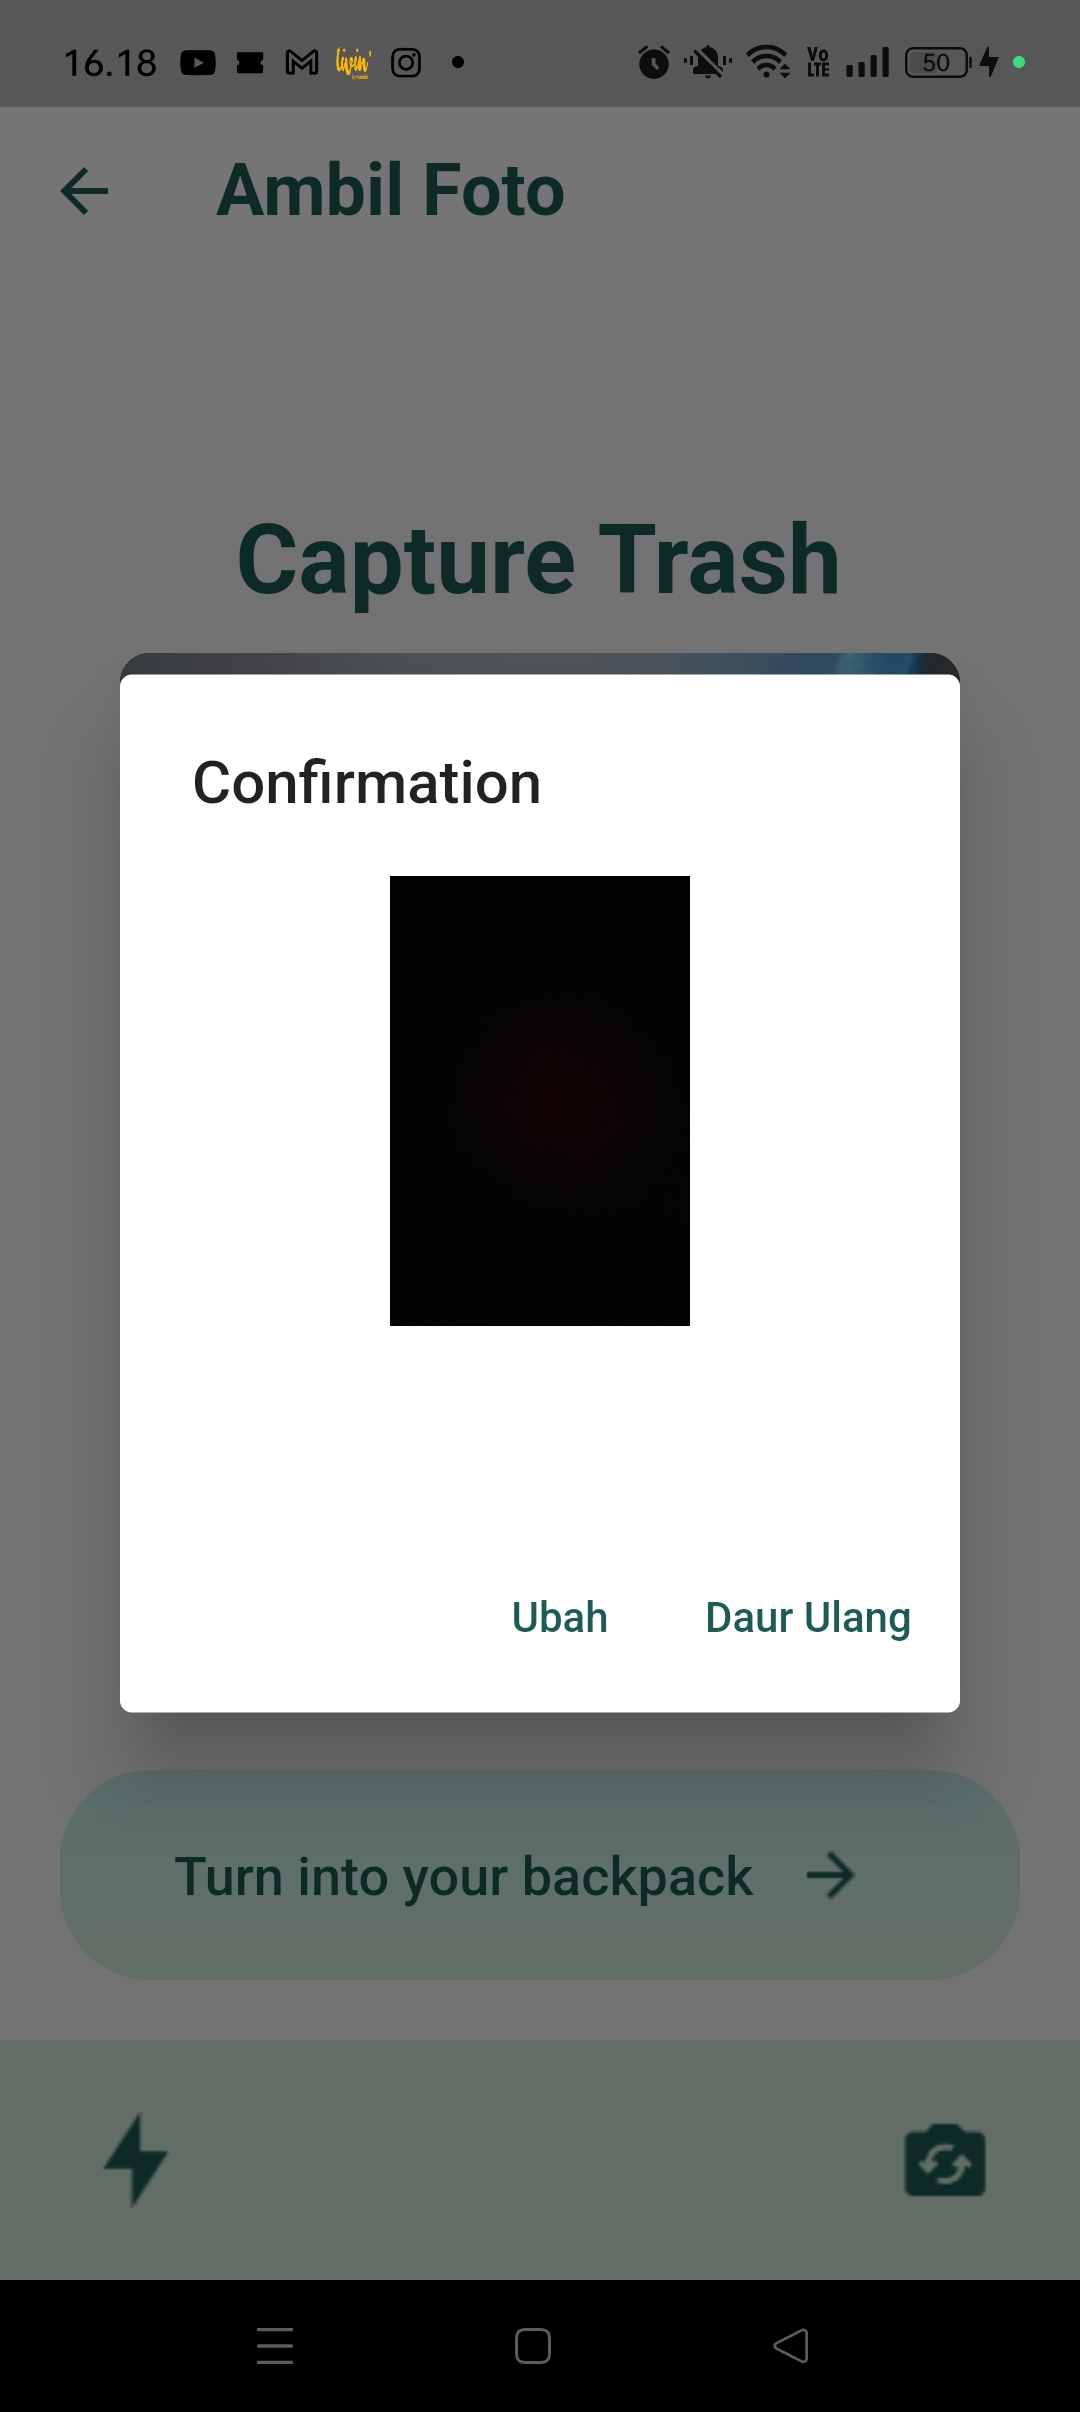
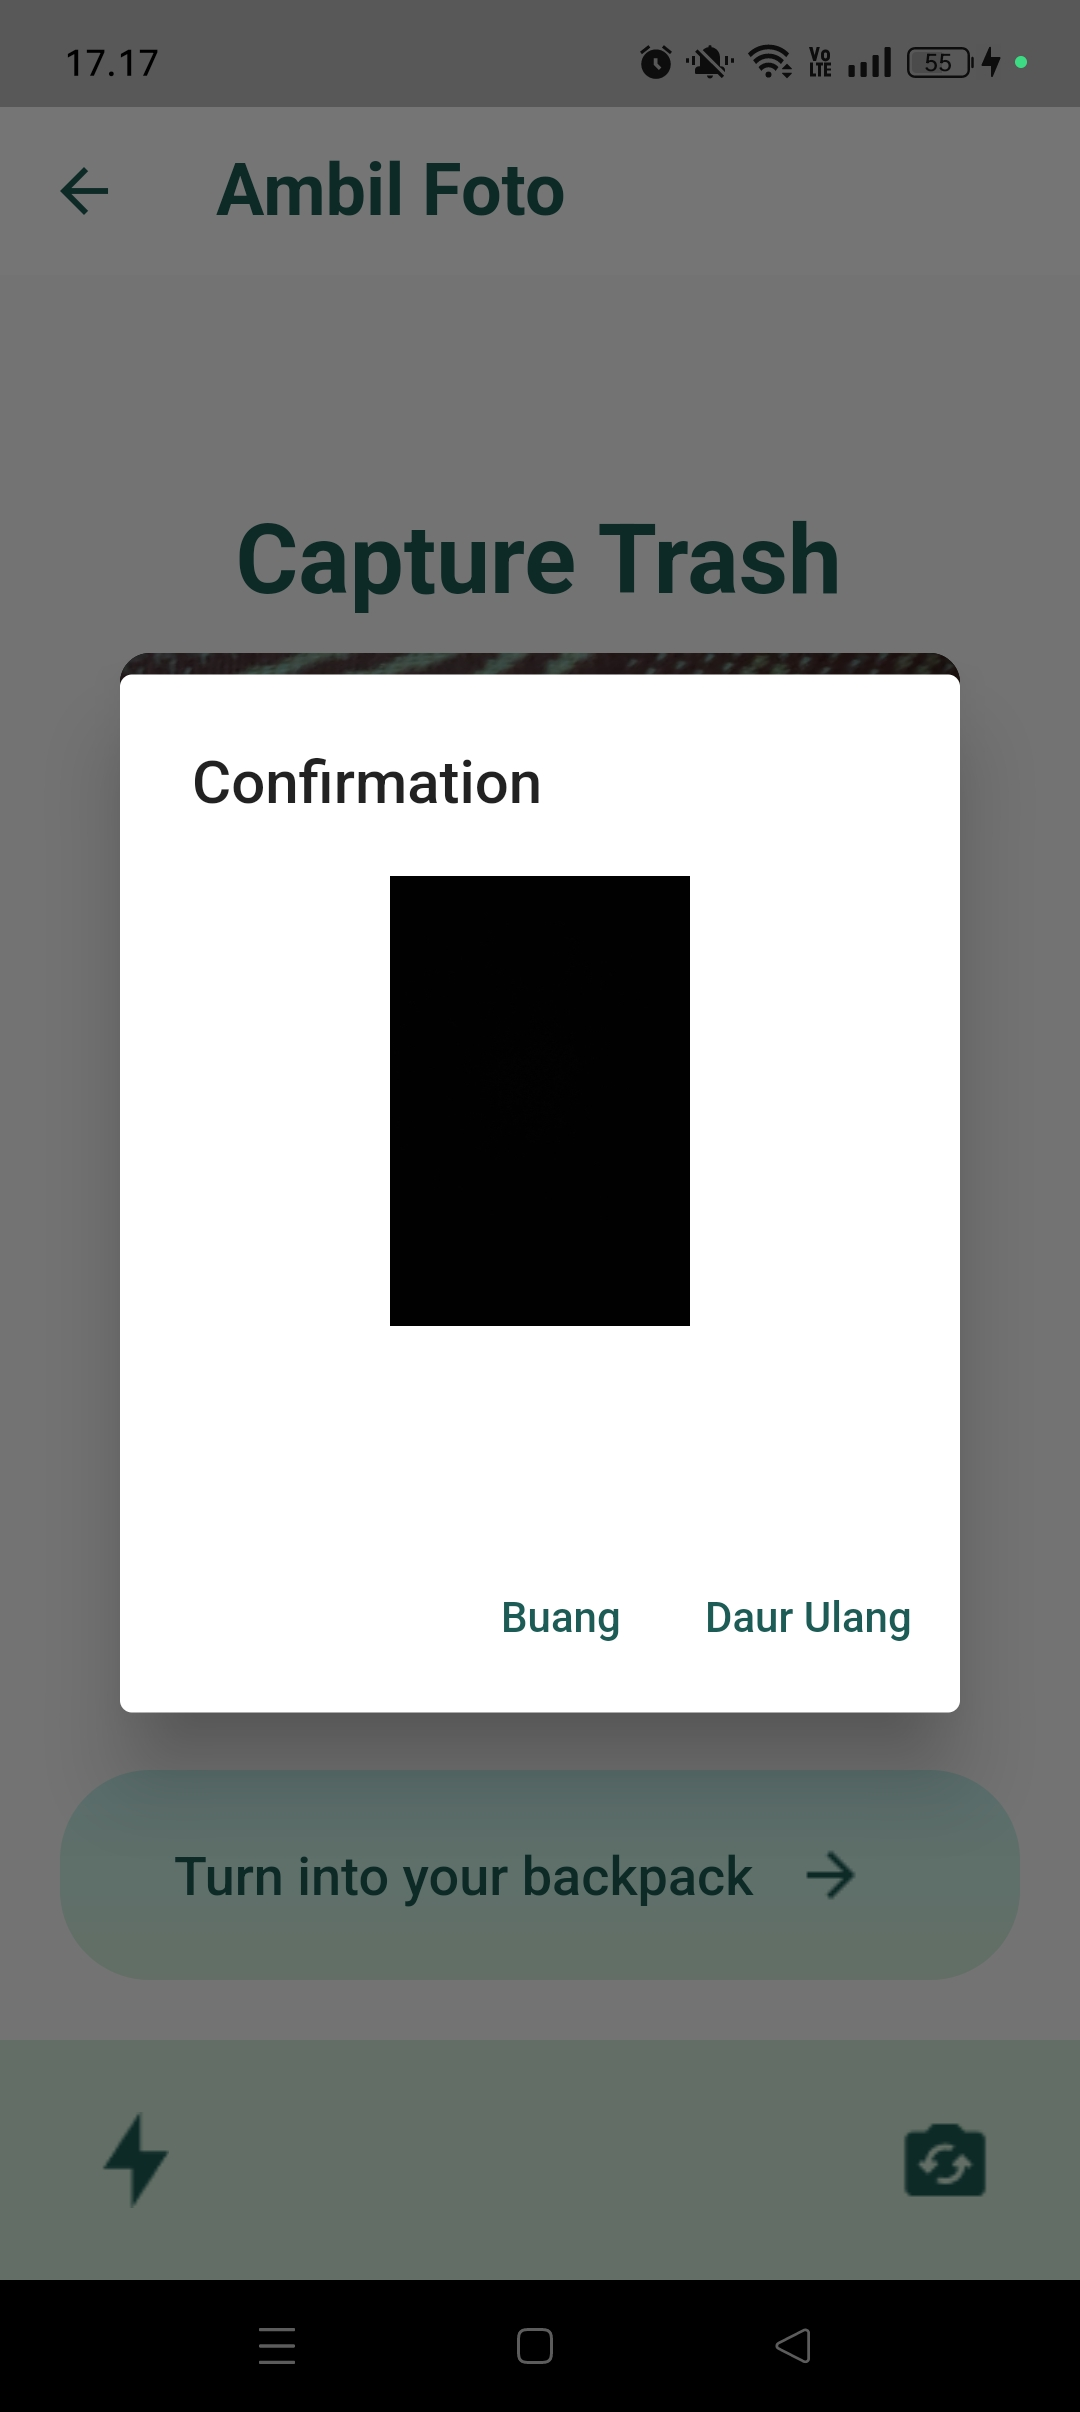
update bug

diff --git a/lib/feature/scan/presentation/page/scan_page.dart b/lib/feature/scan/presentation/page/scan_page.dart
@@ -481,7 +481,7 @@ class _ScanPageState extends State<ScanPage> {
                 );
               },
               child: Text(
-                'Ubah',
+                'Buang',
                 style: TextStyle(
                     color: Config().greenColor,
                 ),
